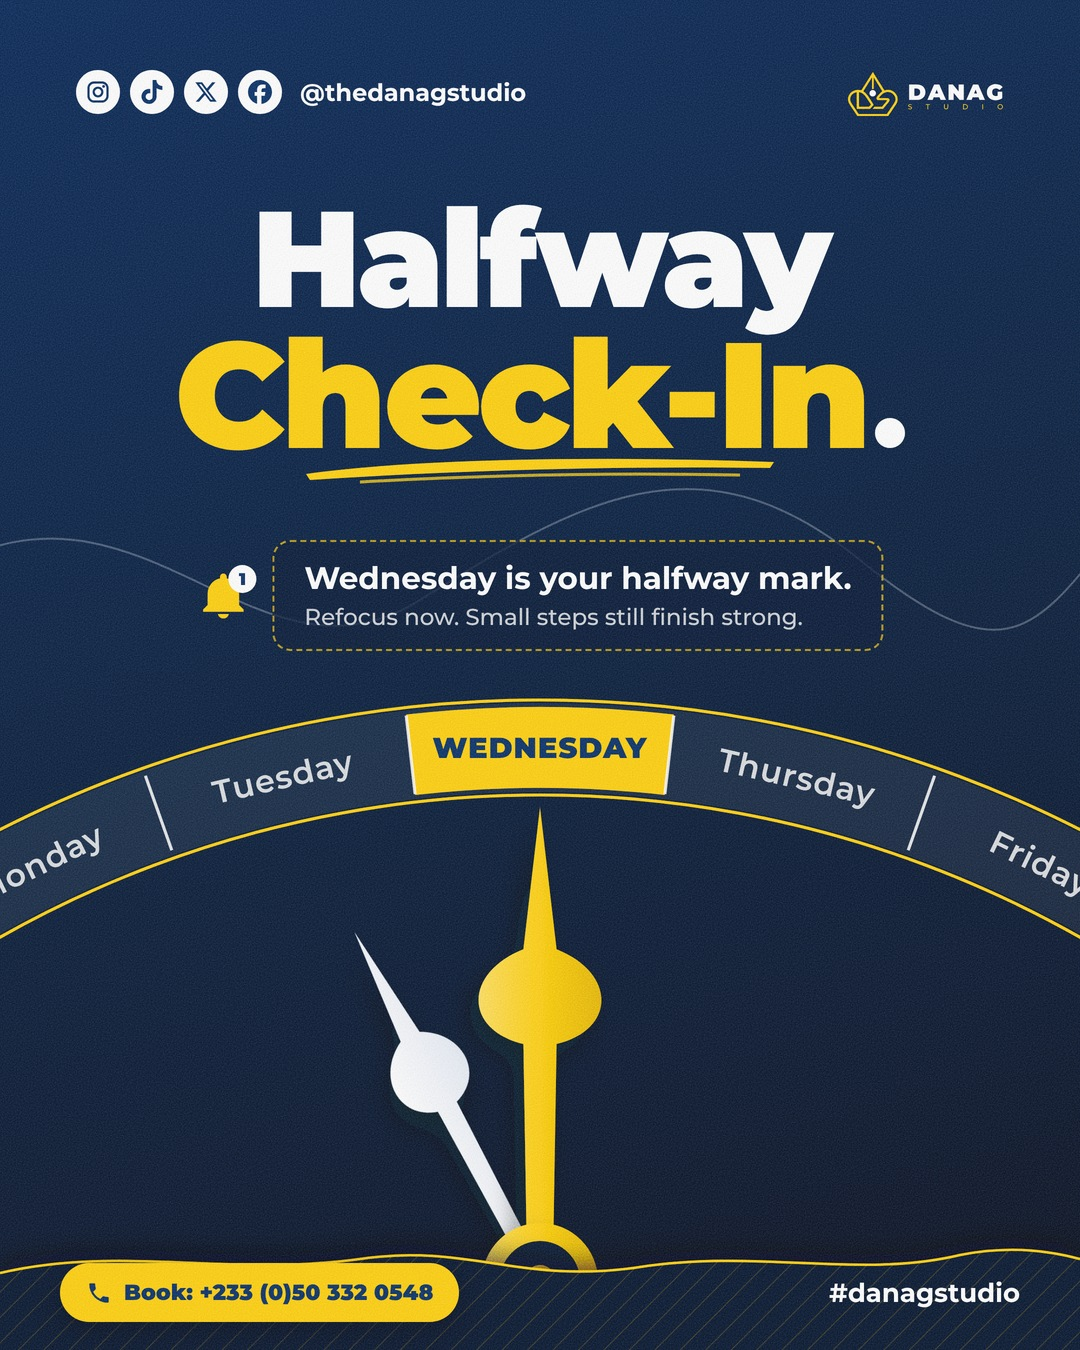
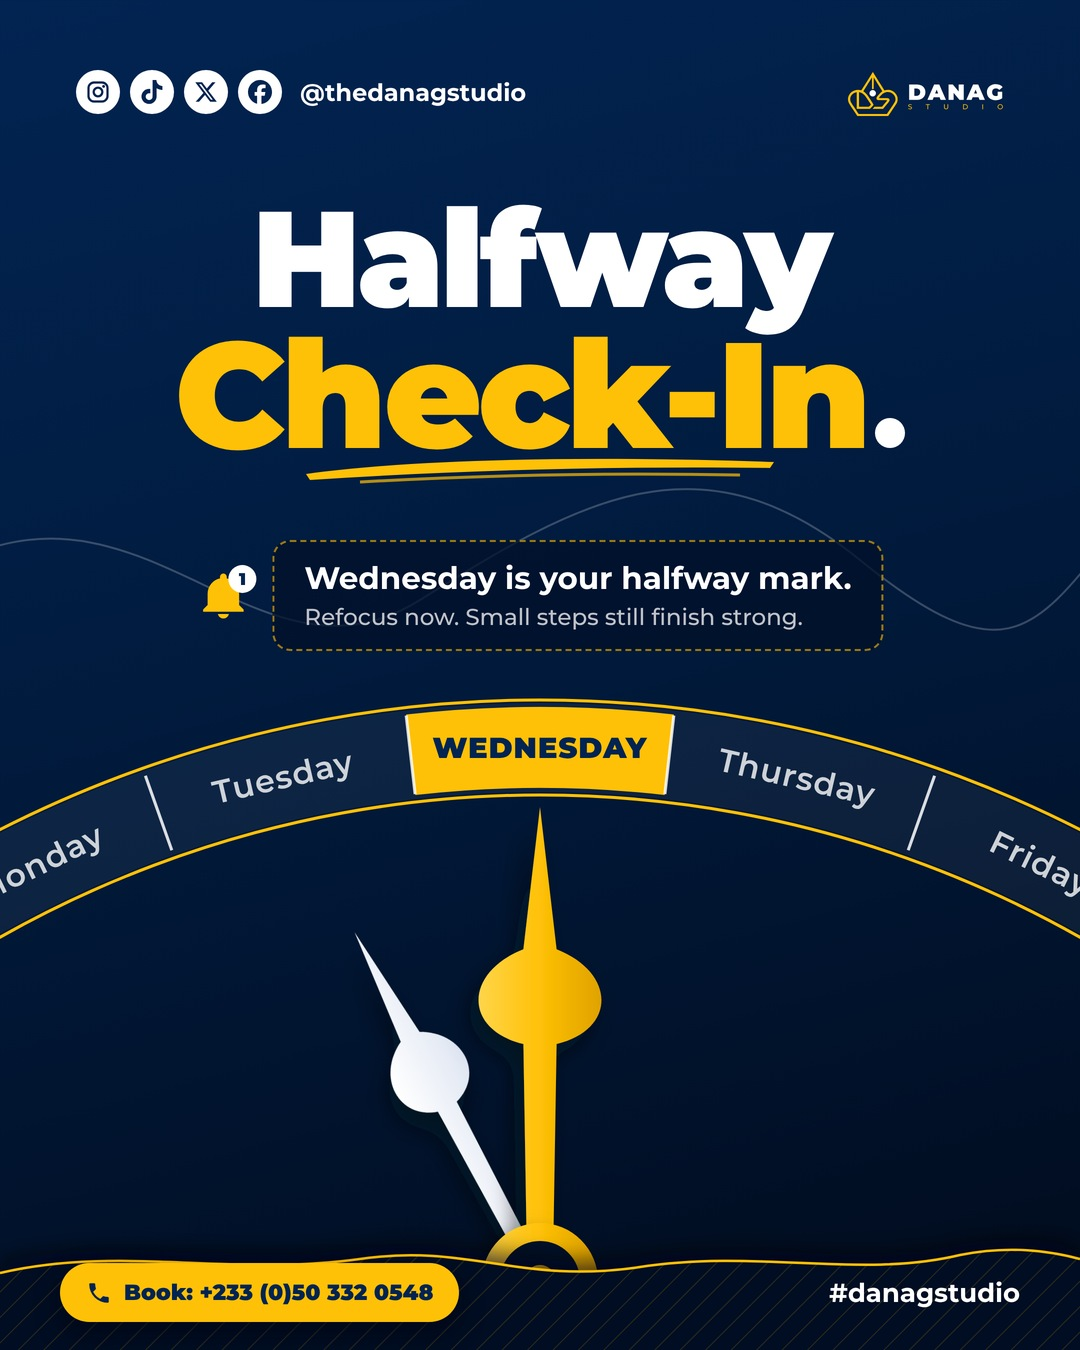
Wed 25 Nov: no grain
Claude-Session: https://claude.ai/code/session_016a1VN4sEuNiBsko23wNLQZ

diff --git a/promo/render_wed_dial.py b/promo/render_wed_dial.py
@@ -9,7 +9,7 @@ OUT=sys.argv[1] if len(sys.argv)>1 else f'{R}/flyers/2026-11-25-v1'
 logo=re.sub(r'<\?xml[^>]*>','',open('/home/claude/brand/DANAG-STUDIO-horizontal-on-navy.svg').read()).replace('<svg','<svg style="height:44px;width:auto;display:block"',1)
 ic=lambda k,c,s=20: f'<svg viewBox="0 0 24 24" width="{s}" height="{s}" style="color:{c};flex:none">{IC[k]}</svg>'
 CSS=f'''@font-face{{font-family:M;font-weight:500;src:url({F}montserrat-latin-500-normal.woff2)}}@font-face{{font-family:M;font-weight:600;src:url({F}montserrat-latin-600-normal.woff2)}}@font-face{{font-family:M;font-weight:700;src:url({F}montserrat-latin-700-normal.woff2)}}@font-face{{font-family:M;font-weight:900;src:url({F}montserrat-latin-900-normal.woff2)}}
-*{{margin:0;padding:0;box-sizing:border-box}}body{{width:1080px;height:1350px;overflow:hidden;position:relative;font-family:M;background:linear-gradient(165deg,#011c44 0%,#01142f 45%,#010c20 80%,#010714 100%)}}.a{{position:absolute}}'''
+*{{margin:0;padding:0;box-sizing:border-box}}body{{width:1080px;height:1350px;overflow:hidden;position:relative;font-family:M;background:linear-gradient(165deg,#022452 0%,#011b3e 45%,#011129 80%,#010b1c 100%)}}.a{{position:absolute}}'''
 noise='''<svg class="a" style="inset:0;width:1080px;height:1350px;z-index:20;pointer-events:none;mix-blend-mode:overlay;opacity:1"><filter id="nz"><feTurbulence type="fractalNoise" baseFrequency=".9" numOctaves="3" stitchTiles="stitch"/><feColorMatrix type="saturate" values="0"/></filter><rect width="100%" height="100%" filter="url(#nz)"/></svg>'''
 # dial
 CX,CY,RO,RI=540,1890,1190,1095
@@ -71,7 +71,7 @@ html=f'''<body>
 <g filter="url(#up)"><path d="M0,58 C120,30 230,62 360,44 C470,28 520,70 640,52 C760,34 860,64 960,40 C1010,30 1050,36 1080,44 L1080,160 L0,160 Z" fill="#010d22"/></g>
 <path d="M0,58 C120,30 230,62 360,44 C470,28 520,70 640,52 C760,34 860,64 960,40 C1010,30 1050,36 1080,44 L1080,160 L0,160 Z" fill="url(#pt)"/>
 <path d="M0,58 C120,30 230,62 360,44 C470,28 520,70 640,52 C760,34 860,64 960,40 C1010,30 1050,36 1080,44" fill="none" stroke="#FFC107" stroke-width="2.5"/></svg>
-{noise}<svg class="a" style="inset:0;width:1080px;height:1350px;z-index:21;opacity:.24"><filter id="nz2"><feTurbulence type="fractalNoise" baseFrequency=".85" numOctaves="2" stitchTiles="stitch"/><feColorMatrix type="saturate" values="0"/></filter><rect width="100%" height="100%" filter="url(#nz2)"/></svg>
+
 </body>'''
 with sync_playwright() as p:
     b=p.chromium.launch(executable_path='/usr/bin/google-chrome'); pg=b.new_page(viewport={'width':1080,'height':1350},device_scale_factor=2)
